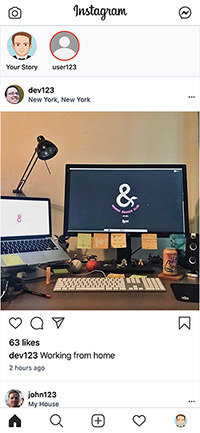
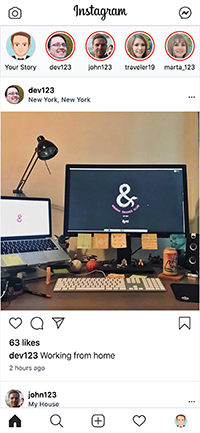
add: stories

diff --git a/src/components/StoriesBar/index.tsx b/src/components/StoriesBar/index.tsx
@@ -1,18 +1,41 @@
 import StoryPreview from "./StoryPreview";
+import type { GetStaticProps } from "next";
+import React from "react";
 
-interface Props {
-  profile?: boolean;
-}
+type Story = {
+  _id: string;
+  username: string;
+  profilePicture?: string;
+  // photo?: string;
+  // timeAgo?: string;
+};
 
-const StoriesBar: React.FC<Props> = ({ profile }) => {
+const StoriesBar: React.FC<any> = ({ profile, stories }) => {
+  const getStories = () => {
+    const storiesList: Story[] = stories.map((story: Story) => {
+      return (
+        <StoryPreview
+          key={story._id}
+          username={story.username}
+          profilePicture={story.profilePicture}
+        />
+      );
+    });
+    return <React.Fragment>{storiesList}</React.Fragment>;
+  };
+
   return profile ? (
     <div className="w-full h-24 bg-gray-100 border-b border-gray-300 overflow-x-scroll flex items-center">
-      <StoryPreview self={true} username="New" picture="/new.png" />
+      <StoryPreview self={true} username="New" profilePicture="/new.png" />
     </div>
   ) : (
     <div className="w-screen h-24 max-w-xl mx-auto bg-gray-50 border border-gray-200 overflow-x-scroll flex items-center lg:hidden">
-      <StoryPreview self={true} username="Your Story" picture="/avatar1.png" />
-      <StoryPreview username="user123" />
+      <StoryPreview
+        self={true}
+        username="Your Story"
+        profilePicture="/avatar1.png"
+      />
+      {getStories()}
     </div>
   );
 };

diff --git a/src/pages/index.tsx b/src/pages/index.tsx
@@ -15,7 +15,7 @@ type Post = {
   timeAgo: string;
 };
 
-const Home: NextPage<any> = ({ posts }) => {
+const Home: NextPage<any> = ({ posts, stories }) => {
   const getPosts = () => {
     const postsList: Post[] = posts.map((post: Post) => {
       return (
@@ -38,7 +38,7 @@ const Home: NextPage<any> = ({ posts }) => {
     <div className="w-full h-full min-w-screen min-h-screen">
       <Navbar />
       <main className="w-full pb-12 pt-12 flex-1 flex-col lg:pt-32">
-        <StoriesBar />
+        <StoriesBar stories={stories} />
         {getPosts()}
       </main>
     </div>
@@ -48,9 +48,11 @@ const Home: NextPage<any> = ({ posts }) => {
 export default Home;
 
 export const getStaticProps: GetStaticProps = async () => {
-  const res = await fetch("http://localhost:3000/api/posts");
-  const data = await res.json();
+  const postsRes = await fetch("http://localhost:3000/api/posts");
+  const postsData = await postsRes.json();
+  const storiesRes = await fetch("http://localhost:3000/api/stories");
+  const storiesData = await storiesRes.json();
   return {
-    props: { posts: data.posts },
+    props: { posts: postsData.posts, stories: storiesData.stories },
   };
 };

diff --git a/src/components/StoriesBar/StoryPreview.tsx b/src/components/StoriesBar/StoryPreview.tsx
@@ -2,7 +2,7 @@ import Image from "next/image";
 
 interface Props {
   self?: boolean;
-  picture?: string;
+  profilePicture?: string;
   username: string;
 }
 
@@ -10,18 +10,18 @@ const defaultPicture = "/default.jpeg";
 
 const StoryPreview: React.FC<Props> = ({
   self,
-  picture = defaultPicture,
+  profilePicture = defaultPicture,
   username,
 }) => {
   return (
     <div className="items-center w-16 mx-2 text-center">
       <div
         className={`h-14 w-14 mx-auto mb-1 rounded-full border-2 border-gray-300 ${
-          !self && "border-2 border-red-600"
+          !self && "border-2 border-red-600 p-0.5"
         }`}
       >
         <Image
-          src={picture}
+          src={profilePicture}
           height={100}
           width={100}
           className="h-full w-full rounded-full border-2 border-white"

diff --git a/src/models/Story.ts b/src/models/Story.ts
@@ -1,0 +1,21 @@
+import { ObjectID } from "bson";
+import { Schema, model, models } from "mongoose";
+
+const storySchema = new Schema(
+  {
+    _id: { type: ObjectID },
+    username: {
+      type: String,
+      required: true,
+    },
+    profilePicture: { type: String, trim: true },
+    photo: { type: String },
+    timeAgo: { type: String, required: true },
+  },
+  {
+    timestamps: true,
+    collection: "posts",
+  }
+);
+
+export default models.Story || model("Story", storySchema);

diff --git a/src/pages/api/stories.ts b/src/pages/api/stories.ts
@@ -1,0 +1,10 @@
+import type { NextApiRequest, NextApiResponse } from "next";
+import dbconnect from "../../utils/database";
+import Story from "../../models/Story";
+
+dbconnect();
+
+export default async (req: NextApiRequest, res: NextApiResponse<any>) => {
+  const stories = await Story.find({});
+  res.status(200).json({ stories });
+};
